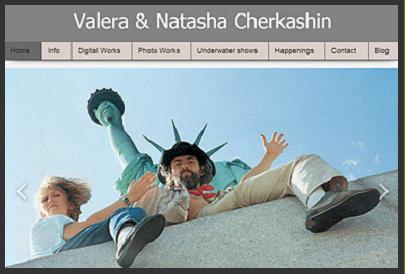
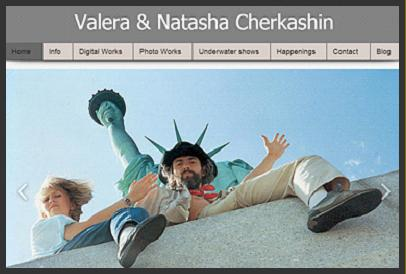
metro33.com updates

diff --git a/page34.html b/page34.html
@@ -673,7 +673,7 @@ margin-bottom: 0.0pt;
 <div style="position: absolute; left:12px; top:188px; width:590px; height:1828px; padding:4px 4px 4px 4px;">
 <table width=582px height=1820px border=0 cellpadding=0 cellspacing=0><tr><td valign=top align=left>
 
-<p id=NormalP><span id=PubSt4F>2014 -&nbsp;</span><span id=NormalF> </span><span id=NormalF>Поиск свободы в Русском</span><span id=NormalF>, 1961-2014. </span><span id=NormalF>Избранное из&nbsp; коллекции </span><span id=NormalF>Kolodzei Art Foundation </span><span id=NormalF>и коллекции</span><span id=NormalF> Dr. Wayne F. Yakes. Paul and Lulu Hilliard. </span><span id=NormalF>Музей искусств Университета Луизианы в г. Лафает, США.</span><span id=NormalF> <br></span></p>
+<p id=NormalP><span id=PubSt4F>2014 -&nbsp;</span><span id=NormalF> </span><span id=NormalF>Поиск свободы в Русском искусстве</span><span id=NormalF>, 1961-2014. </span><span id=NormalF>Избранное из&nbsp; коллекции </span><span id=NormalF>Kolodzei Art Foundation </span><span id=NormalF>и коллекции</span><span id=NormalF> Dr. Wayne F. Yakes. Paul and Lulu Hilliard. </span><span id=NormalF>Музей искусств Университета Луизианы в г. Лафает, США.</span><span id=NormalF> <br></span></p>
 <p id=NormalP><span id=NormalF>- </span><span id=PubSt5F>Сезон побед! </span><span id=NormalF>ЦВЗ </span><span id=NormalF>&#171;</span><span id=NormalF>Манеж</span><span id=NormalF>&#187;, </span><span id=NormalF>Москва.</span><span id=NormalF> <br></span></p>
 <p id=NormalP><span id=NormalF>- </span><span id=PubSt6F>Время Флюксуса </span><span id=PubSt7F>1959...1969...1979... </span><span id=PubSt6F>В Харькове, </span><span id=NormalF>Муниципальная галерея, Харьков, Украина.</span><span id=PubSt4F><br></span></p>
 <p id=NormalP><span id=PubSt4F>2013 - </span><span id=PubSt6F>Акт неповиновения. Тело как протест в харьковской фотогра-фии </span><span id=PubSt7F>1970-2010 </span><span id=PubSt6F>гг</span><span id=NormalF>. </span><span id=NormalF>Центр фотографии им. Братьев Люмьер. Москва. <br></span></p>
@@ -735,7 +735,7 @@ margin-bottom: 0.0pt;
 <p id=NormalP><span id=NormalF>- </span><span id=PubSt6F>От аналоговой к цифровой фотографии. 7 лет </span><span id=PubSt7F>Photographer</span><span id=PubSt6F>.</span><span id=PubSt7F>ru</span><span id=NormalF>. Галерея Якут.<br></span></p>
 <p id=NormalP><span id=NormalF>- </span><span id=PubSt6F>Альтернативное искусство 60-90х годов</span><span id=NormalF>. ЦДХ, Москва.</span><span id=PubSt15F><br></span></p>
 <p id=NormalP><span id=PubSt15F>2004</span><span id=NormalF> - </span><span id=PubSt6F>Мой Кабаков. </span><span id=PubSt7F>Stella</span><span id=PubSt6F> </span><span id=PubSt7F>Art</span><span id=PubSt6F> </span><span id=PubSt7F>Gallery</span><span id=PubSt6F>. </span><span id=NormalF>Москва. (Каталог).<br></span></p>
-<p id=NormalP><span id=NormalF>- </span><span id=PubSt6F>&#171;Еврографика&#187; Европейский Культурный Интеграционный мост</span><span id=NormalF>. Краков, Киев, Москва. (Каталог).<br></span></p>
+<p id=NormalP><span id=NormalF>- </span><span id=PubSt6F>&#171;Еврографика&#187; Европейский Культурный Интеграционный мост</span><span id=NormalF>. </span></p>
 
 </td></tr></table>
 </div>
@@ -744,6 +744,7 @@ margin-bottom: 0.0pt;
 <div style="position: absolute; left:626px; top:188px; width:590px; height:2069px; padding:4px 4px 4px 4px;">
 <table width=582px height=2061px border=0 cellpadding=0 cellspacing=0><tr><td valign=top align=left>
 
+<p id=NormalP><span id=NormalF>Краков, Киев, Москва. (Каталог).<br></span></p>
 <p id=NormalP><span id=NormalF>- </span><span id=PubSt6F>История Гарема. </span><span id=NormalF>May</span><span id=NormalF> </span><span id=NormalF>Fashion</span><span id=NormalF>. Перформанс. Москва.<br></span></p>
 <p id=NormalP><span id=PubSt15F>2003 - </span><span id=PubSt6F>Фотографическая идея: после модернизма</span><span id=NormalF>. Музей Нью Мексико, Музей изобразительных искусств Санта Фе. (каталог)<br></span></p>
 <p id=NormalP><span id=NormalF>- </span><span id=PubSt6F>Актуальное искусство в вагоне метро</span><span id=NormalF>. Метро, Москва.<br></span></p>

diff --git a/index.html b/index.html
@@ -179,7 +179,8 @@ margin-bottom: 0.0pt;
 
 #PubSt5F {
 PublisherStyleName: PubSt5;
-font-family: Arial Rounded MT Bold;
+font-family: Arial;
+font-weight: bold;
 font-size: 10.0pt;
 color: #ffffff;
 }
@@ -203,8 +204,7 @@ margin-bottom: 0.0pt;
 
 #PubSt7F {
 PublisherStyleName: PubSt7;
-font-family: Arial;
-font-weight: bold;
+font-family: Arial Rounded MT Bold;
 font-size: 10.0pt;
 color: #ffffff;
 }
@@ -341,41 +341,41 @@ margin-bottom: 0.0pt;
 <img width=47 height=35 border=0 src="img0.gif" usemap="#map319"></div>
 <div id=div857 style="position: absolute; left:12px; top:94px; width:1204px; height:625px;">
 <img width=1204 height=625 border=0 src="img1.gif"></div>
-<div id=div819 style="position: absolute; left:784px; top:396px; width:383px; height:265px;">
+<div id=div819 style="position: absolute; left:786px; top:387px; width:383px; height:265px;">
 <map name="map819">
 <area shape="rect" coords="0,0,383,264" href="http://metro33.com/page2.html">
 </map>
 <img width=383 height=265 border=0 src="img2.gif" usemap="#map819"></div>
-<div id=div768 style="position: absolute; left:61px; top:666px; width:378px; height:37px;">
+<div id=div768 style="position: absolute; left:53px; top:661px; width:402px; height:33px;">
 </div>
-<div style="position: absolute; left:61px; top:666px; width:377px; height:37px; padding:4px 4px 4px 4px;">
-<table width=369px height=29px border=0 cellpadding=0 cellspacing=0><tr><td valign=top align=left>
+<div style="position: absolute; left:53px; top:661px; width:401px; height:33px; padding:4px 4px 4px 4px;">
+<table width=393px height=25px border=0 cellpadding=0 cellspacing=0><tr><td valign=top align=left>
 
-<p id=PubSt1P><span id=PubSt1F>Short version<br></span></p>
-
-</td></tr></table>
-</div>
-<div id=div763 style="position: absolute; left:784px; top:661px; width:387px; height:38px;">
-</div>
-<div style="position: absolute; left:784px; top:661px; width:387px; height:37px; padding:4px 4px 4px 4px;">
-<table width=379px height=29px border=0 cellpadding=0 cellspacing=0><tr><td valign=top align=left>
-
-<p id=PubSt1P><span id=PubSt1F>Complete version<br></span></p>
+<p id=PubSt1P><span id=PubSt1F><a href="http://chemuseum.wix.com/cherkashin">Short version</a></span><span id=PubSt1F><br></span></p>
 
 </td></tr></table>
 </div>
-<div id=div755 style="position: absolute; left:50px; top:392px; width:405px; height:274px;">
+<div id=div763 style="position: absolute; left:786px; top:654px; width:382px; height:35px;">
+</div>
+<div style="position: absolute; left:786px; top:654px; width:382px; height:35px; padding:4px 4px 4px 4px;">
+<table width=374px height=27px border=0 cellpadding=0 cellspacing=0><tr><td valign=top align=left>
+
+<p id=PubSt1P><span id=PubSt1F><a href="http://metro33.com/page2.html">Complete version</a></span><span id=PubSt1F><br></span></p>
+
+</td></tr></table>
+</div>
+<div id=div755 style="position: absolute; left:51px; top:382px; width:406px; height:274px;">
 <map name="map755">
 <area shape="rect" coords="0,0,405,274" href="http://chemuseum.wix.com/cherkashin">
 </map>
-<img width=405 height=274 border=0 src="img3.jpg" usemap="#map755"></div>
+<img width=406 height=274 border=0 src="img3.jpg" usemap="#map755"></div>
 <div id=div808 style="position: absolute; left:12px; top:732px; width:1204px; height:66px;">
 </div>
 <div style="position: absolute; left:12px; top:732px; width:1204px; height:66px; background-color:#ada990; padding:4px 4px 4px 4px;">
 <table width=1196px height=58px border=0 cellpadding=0 cellspacing=0><tr><td valign=top align=left bgcolor=#ada990>
 
 <p id=PubSt2P><span id=PubSt2F><a href="mailto:cherkashin@metro33.com">cherkashin@metro33.com</a></span><span id=PubSt3F>&nbsp; &nbsp;</span><span id=PubSt4F> <br></span></p>
-<p id=PubSt1P><span id=PubSt5F>Now we are in Moscow</span><span id=PubSt6F>.&nbsp;</span><span id=PubSt5F> </span><span id=PubSt7F>Moscow cell </span><span id=PubSt6F>+7 926 530 7421&nbsp; </span><span id=PubSt5F>US cell +</span><span id=PubSt6F>1 917 714 0924&nbsp; </span><span id=PubSt8F><br></span></p>
+<p id=PubSt1P><span id=PubSt5F>Moscow cell </span><span id=PubSt6F>+7 926 530 7421&nbsp; </span><span id=PubSt7F>US cell +</span><span id=PubSt6F>1 917 714 0924&nbsp; </span><span id=PubSt8F><br></span></p>
 
 </td></tr></table>
 </div>

diff --git a/page2.html b/page2.html
@@ -393,8 +393,8 @@ margin-bottom: 0.0pt;
 <img width=47 height=35 border=0 src="img0.gif" usemap="#map319"></div>
 <div id=div422 style="position: absolute; left:12px; top:89px; width:1204px; height:38px;">
 </div>
-<div style="position: absolute; left:12px; top:89px; width:1204px; height:37px; padding:-2250px 4px 4px 4px;">
-<table width=1196px height=2283px border=0 cellpadding=0 cellspacing=0><tr><td valign=top align=left>
+<div style="position: absolute; left:12px; top:89px; width:1204px; height:37px; padding:8px 4px 4px 4px;">
+<table width=1196px height=25px border=0 cellpadding=0 cellspacing=0><tr><td valign=top align=left>
 
 <p id=PubSt1P><span id=PubSt1F><a href="page18.html">Bio</a></span><span id=PubSt2F>&nbsp; &nbsp;</span><span id=PubSt1F><a href="page4.html">Collections</a></span><span id=PubSt2F>&nbsp; &nbsp;</span><span id=PubSt1F><a href="page3.html">Press Release</a></span><span id=PubSt2F>&nbsp; &nbsp;</span><span id=PubSt1F><a href="page10.html">Exhibitions</a></span><span id=PubSt2F>&nbsp; &nbsp;</span><span id=PubSt1F><a href="page5.html">Publications</a></span><span id=PubSt2F>&nbsp; &nbsp;</span><span id=PubSt1F><a href="page13.html">Lectures</a></span><span id=PubSt2F>&nbsp; &nbsp;</span><span id=PubSt1F><a href="page12.html">Happenings</a></span><span id=PubSt2F>&nbsp; &nbsp; &nbsp; <br></span></p>
 

diff --git a/page3.html b/page3.html
@@ -331,8 +331,8 @@ margin-bottom: 0.0pt;
 <img width=47 height=35 border=0 src="img0.gif" usemap="#map319"></div>
 <div id=div356 style="position: absolute; left:12px; top:89px; width:1204px; height:38px;">
 </div>
-<div style="position: absolute; left:12px; top:89px; width:1204px; height:37px; padding:-2250px 4px 4px 4px;">
-<table width=1196px height=2283px border=0 cellpadding=0 cellspacing=0><tr><td valign=top align=left>
+<div style="position: absolute; left:12px; top:89px; width:1204px; height:37px; padding:8px 4px 4px 4px;">
+<table width=1196px height=25px border=0 cellpadding=0 cellspacing=0><tr><td valign=top align=left>
 
 <p id=PubSt1P><span id=PubSt1F><a href="page18.html">Bio</a></span><span id=PubSt2F>&nbsp; &nbsp;</span><span id=PubSt1F><a href="page4.html">Collections</a></span><span id=PubSt2F>&nbsp; &nbsp;</span><span id=PubSt1F><a href="page3.html">Press Release</a></span><span id=PubSt2F>&nbsp; &nbsp;</span><span id=PubSt1F><a href="page10.html">Exhibitions</a></span><span id=PubSt2F>&nbsp; &nbsp;</span><span id=PubSt1F><a href="page5.html">Publications</a></span><span id=PubSt2F>&nbsp; &nbsp;</span><span id=PubSt1F><a href="page13.html">Lectures</a></span><span id=PubSt2F>&nbsp; &nbsp;</span><span id=PubSt1F><a href="page12.html">Happenings</a></span><span id=PubSt3F><br></span></p>
 

diff --git a/page4.html b/page4.html
@@ -332,8 +332,8 @@ margin-bottom: 0.0pt;
 </div>
 <div id=div426 style="position: absolute; left:12px; top:89px; width:1204px; height:38px;">
 </div>
-<div style="position: absolute; left:12px; top:89px; width:1204px; height:37px; padding:-2250px 4px 4px 4px;">
-<table width=1196px height=2283px border=0 cellpadding=0 cellspacing=0><tr><td valign=top align=left>
+<div style="position: absolute; left:12px; top:89px; width:1204px; height:37px; padding:8px 4px 4px 4px;">
+<table width=1196px height=25px border=0 cellpadding=0 cellspacing=0><tr><td valign=top align=left>
 
 <p id=PubSt2P><span id=PubSt2F><a href="page18.html">Bio</a></span><span id=PubSt3F>&nbsp; &nbsp;</span><span id=PubSt2F><a href="page4.html">Collections</a></span><span id=PubSt3F>&nbsp; &nbsp;</span><span id=PubSt2F><a href="page3.html">Press Release</a></span><span id=PubSt3F>&nbsp; &nbsp;</span><span id=PubSt2F><a href="page10.html">Exhibitions</a></span><span id=PubSt3F>&nbsp; &nbsp;</span><span id=PubSt2F><a href="page5.html">Publications</a></span><span id=PubSt3F>&nbsp; &nbsp;</span><span id=PubSt2F><a href="page13.html">Lectures</a></span><span id=PubSt3F>&nbsp; &nbsp;</span><span id=PubSt2F><a href="page12.html">Happenings</a></span><span id=PubSt4F><br></span></p>
 
